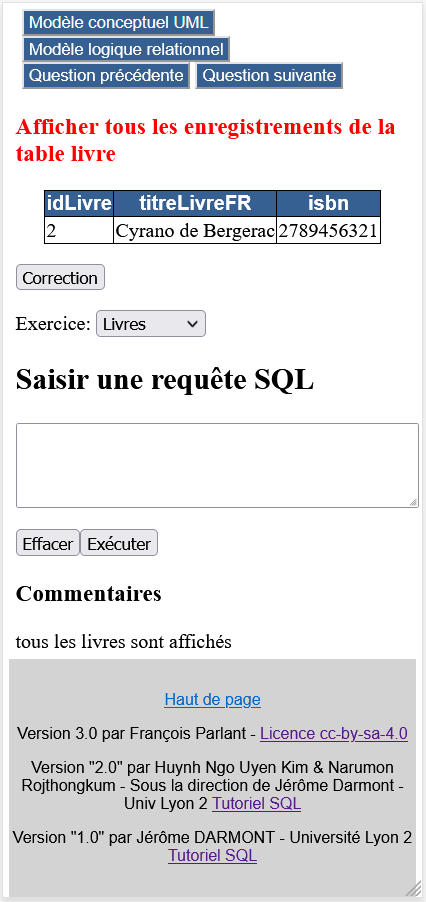
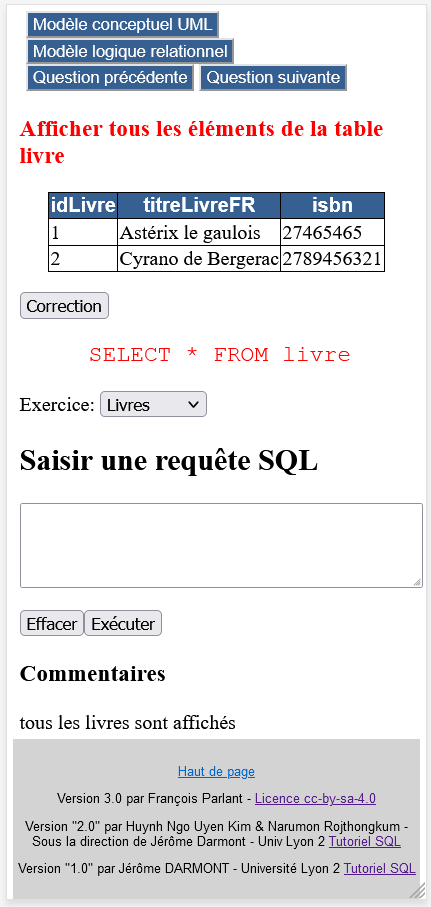
resTable

diff --git a/src/oXHR.js b/src/oXHR.js
@@ -45,8 +45,8 @@
 				xhr.onreadystatechange = function(){
 					// On ne fait quelque chose que si on a tout reçu et que le serveur est ok
 					if(xhr.readyState == 4 && xhr.status == 200){		
-					console.log("CORRECTION");
-						console.log(xhr.responseText);
+					//console.log("CORRECTION");
+						//console.log(xhr.responseText);
 						document.getElementById("corrTable").innerHTML = xhr.responseText;												
 					}
 				}
@@ -78,9 +78,10 @@
 						document.getElementById("resTable").innerHTML = xhr.responseText;												
 					}
 				}
+				var params = "ex="+ex+"&num="+num+"&query="+q;
 				xhr.open("POST","src/resTable.php",true);				
 				xhr.setRequestHeader('Content-Type','application/x-www-form-urlencoded');
-				xhr.send("query="+q);				
+				xhr.send(params);				
 				return false;
 			}
 			
@@ -113,6 +114,7 @@
 			
 			// Fonction qui permet de vider tous les résultats
 			function reset(){
+				console.log("RESET");
 				document.getElementById("question").innerHTML = "";
 				document.getElementById("requete").style.display = "none";
 				document.getElementById("query").value = "";

diff --git a/src/style.css b/src/style.css
@@ -32,7 +32,6 @@ border: 1px solid black;
 text-align: center;
 background-color: rgb(55,96,146);
 color: white;
-/* font-size: 16px; */
 font-family: arial, sans-serif;
 }
 
@@ -61,7 +60,7 @@ footer {
 	
 	text-align: center;
 	font-family: arial, sans-serif;
-	font-size: 0.8em;
+	font-size: x-small;
 	padding-top: 1em;
 	padding-bottom: 1em;
 	background:lightgrey;
@@ -91,11 +90,21 @@ left: 20px; */
 }
 
 
+.subbutton {
+	display:flex;
+	justify-content: space-between;
+}
 
 
+#bouton3
+{
+margin-right:auto;
+}
 
-
-
+#bouton4
+{
+margin-right:5px;
+}
 
 
 

diff --git a/src/resTable.php b/src/resTable.php
@@ -1,42 +1,22 @@
 <?php 
 
-header("Content-type:text/html charset=utf-8");
+header("Content-type:text/html");
 
 
 // include config file with passwords
 define('__ROOT__', dirname(dirname(__FILE__)));
 require_once('../config/configUser.php');
-require_once('../config/configAdmin.php');
 
 
-$ex = $_GET['ex']; 
-$num = $_GET['num'];
+$ex = $_POST['ex']; 
+$num = $_POST['num'];
+$query = $_POST['query'];
 
 $dbnameUser = 'sqlpratique_'.$ex;
-
-
-//****************
-/*CONNECTION DB Admin */
-//*****************
-// pour obtenir la requête de correction
-$con = mysqli_connect($dbhost,$dbuser,$dbpass,$dbname);
-mysqli_set_charset( $con, 'utf8');
-// Check connection
-		if (mysqli_connect_errno())
-		  {
-		  echo "Failed to connect to MySQL: " . mysqli_connect_error();
-		  }
-
-$query = 'SELECT * FROM questions WHERE db="sqlpratique_'.$ex.'" AND numQuestion='.$num;
-$result= mysqli_query($con,$query);
-$row = mysqli_fetch_array($result);
-$query = $row[3];
-
 
 //****************
 /*CONNECTION DB */
 //*****************
-// pour jouer la requête de la correction et obtenir le résultat attendu
 $conUser = mysqli_connect($dbhostUser,$dbuserUser,$dbpassUser,$dbnameUser);
 mysqli_set_charset( $conUser, 'utf8');
 // Check connection
@@ -46,6 +26,33 @@ mysqli_set_charset( $conUser, 'utf8');
 		  }
 
 
+
+
+
+
+//************** Récupérer la question
+
+	
+	//$query = 'SELECT * FROM questions WHERE db="sqlpratique_'+$ex+'" AND numQuestion='+$num;
+	//$query = 'SELECT * FROM questions';
+
+
+/*
+if (mysqli_query($con, $query)) {
+    echo "New record created successfully";
+} else {
+    echo "Error: " . $query . "<br>" . mysqli_error($con);
+}
+*/
+
+//**** version avec champs: utile pour champs cachés
+  /*     
+	foreach($_POST as $key => $value) {
+	  $action .= "POST parameter '$key' has '$value'\n";
+	}
+  */
+  
+  
 $result= mysqli_query($conUser,$query);
 
 
@@ -79,10 +86,7 @@ function sql_to_html_table($sqlresult, $delim="\n") {
 }
 
 echo sql_to_html_table( $result, $delim="\n" ) ; 
-//echo json_encode($row);
-
 
 mysqli_free_result($result);
-mysqli_close($con);
 mysqli_close($conUser);
 ?>

diff --git a/index.php b/index.php
@@ -124,7 +124,7 @@ mysqli_close($con);
 		
 		<!-- Formulaire requête -->
 		<form method="post" onsubmit="return getResult(this.query.value);" action="">	
-			<div id="exSelect">
+			<span id="exSelect">
 				<label for="ex">Exercice:</label>
 
 				<select name="ex" id="ex">
@@ -133,11 +133,15 @@ mysqli_close($con);
 				  <option value="mercedes">employee</option>
 				  <option value="audi">Sport</option>
 				</select> 
-			</div>		
-		<p class ="content"><h1>Saisir une requête SQL</h1></p>
+			</span>		
+			<span>
+				<label for="num">Question n°:</label>
+				<input type="text" name="num" id="num" size="2" value="<?php echo $num ?>"/>
+			</span>
+		<p class ="content"><h3>Saisissez votre requête SQL</h3></p>
 		<p class="saisie">
 		<textarea name="query" id="query" rows="4" ></textarea></br>
-		<p><input type="reset" id ="bouton3" value="Effacer" /><input type="submit" id = "bouton3" value="Exécuter" /><br />
+		<p class="subbutton"><input type="reset" id ="bouton3" value="Effacer" /><input type="submit" id = "bouton4" value="Exécuter" /><br />
 		</p></p>		
 		</form>		
 		
